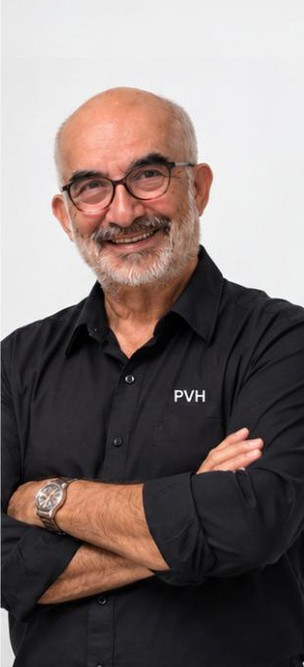
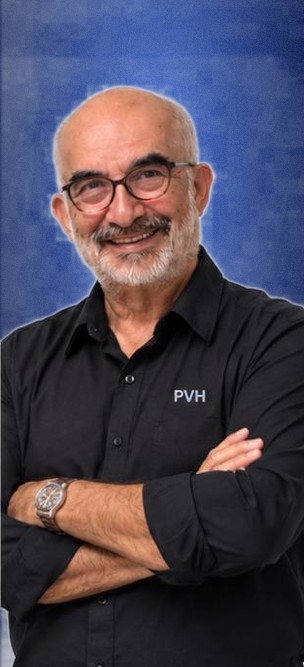
Equipa: fundo azul (gradiente+grao) dentro de cada foto; seccao volta a clara

diff --git a/index.html b/index.html
@@ -382,13 +382,13 @@
 </section>
 
 <!-- ===================== EQUIPE ===================== -->
-<section id="equipe" style="position:relative;padding:96px 0 110px;background:radial-gradient(60% 55% at 24% 24%, rgba(74,110,220,.55) 0%, rgba(74,110,220,0) 60%), radial-gradient(46% 40% at 62% 12%, rgba(96,128,235,.28) 0%, transparent 55%), linear-gradient(135deg, #0b1436 0%, #070b20 46%, #04060f 100%);">
-  <div style="max-width:1300px;margin:0 auto;padding:0 44px;position:relative;">
+<section id="equipe" style="padding:34px 0 110px;background:#f4f6f6;">
+  <div style="max-width:1300px;margin:0 auto;padding:0 44px;">
     <div style="text-align:center;max-width:680px;margin:0 auto 60px;">
-      <span style="font-family:'Montserrat',sans-serif;font-weight:600;font-size:12.5px;letter-spacing:.24em;text-transform:uppercase;color:#d9c191;">{{ t.teamEyebrow }}</span>
-      <h2 style="font-family:'Montserrat',sans-serif;font-weight:700;font-size:clamp(28px,3vw,40px);line-height:1.16;color:#ffffff;margin-top:16px;">{{ t.teamTitle }}</h2>
-      <p style="font-size:15.5px;color:rgba(255,255,255,.82);margin-top:18px;">{{ t.teamText }}</p>
-      <p style="font-size:15.5px;color:rgba(255,255,255,.82);margin-top:14px;">{{ t.teamText2 }}</p>
+      <span style="font-family:'Montserrat',sans-serif;font-weight:600;font-size:12.5px;letter-spacing:.24em;text-transform:uppercase;color:#b08d4c;">{{ t.teamEyebrow }}</span>
+      <h2 style="font-family:'Montserrat',sans-serif;font-weight:700;font-size:clamp(28px,3vw,40px);line-height:1.16;color:#14454f;margin-top:16px;">{{ t.teamTitle }}</h2>
+      <p style="font-size:15.5px;color:#5a6167;margin-top:18px;">{{ t.teamText }}</p>
+      <p style="font-size:15.5px;color:#5a6167;margin-top:14px;">{{ t.teamText2 }}</p>
     </div>
     <div style="position:relative;max-width:1080px;margin:0 auto;">
       <button onClick="{{ teamPrev }}" class="team-nav team-nav-prev" aria-label="Anterior"><svg width="20" height="20" viewBox="0 0 24 24" fill="none" stroke="currentColor" stroke-width="2" stroke-linecap="round" stroke-linejoin="round"><path d="M15 5l-7 7 7 7"/></svg></button>
